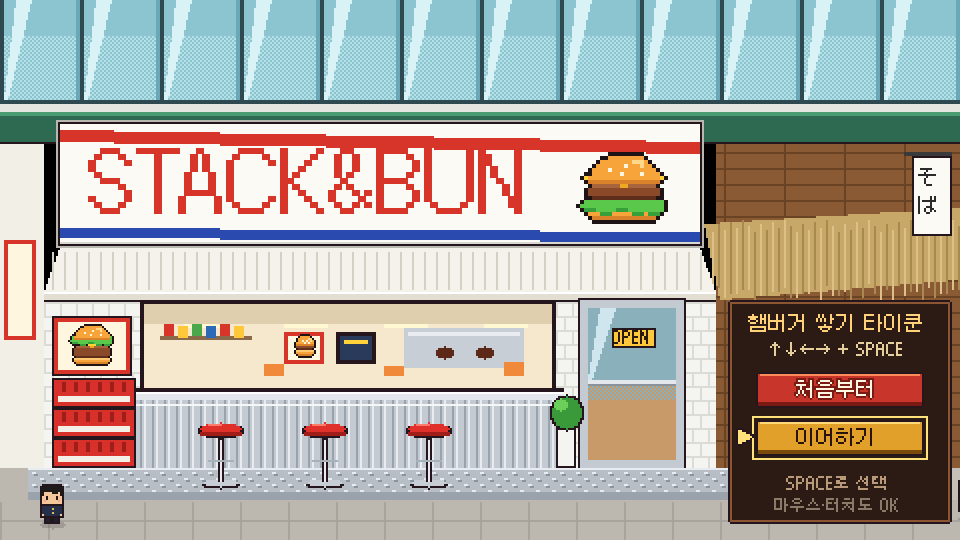
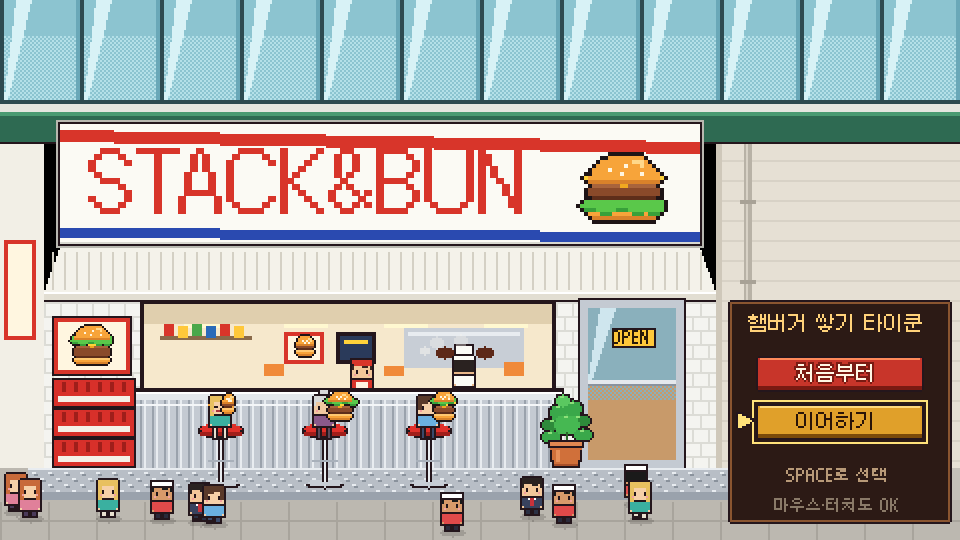
외관: 화분, 스툴 손님·알바생 애니메이션, 옆 가게 제거, 타이틀 키 안내 삭제
Claude-Session: https://claude.ai/code/session_01TauZiRAhkVmxTbH3dWL3Wc

diff --git a/js/game.js b/js/game.js
@@ -149,6 +149,15 @@
     R(c, x - 6, y - 12, 13, 1, '#a8b0ba');
     disc(c, x, y - 27, 11, 4, INK); disc(c, x, y - 28, 10, 3, '#e0302a'); R(c, x - 6, y - 30, 7, 1, '#ff7a6a'); R(c, x - 10, y - 26, 21, 2, '#a01e1a');
   }
+  function pottedPlant(c, x, y) { // terracotta pot with a leafy bush; (x, y) = bottom centre
+    const leaves = [[-7, -22, 5, 3, '#2e8a3a'], [6, -24, 5, 3, '#2e8a3a'], [-4, -28, 4, 4, '#3aa84a'], [3, -30, 4, 4, '#3aa84a'], [0, -22, 6, 5, '#46b852'], [-8, -16, 4, 3, '#3aa84a'], [8, -17, 4, 3, '#3aa84a'], [-2, -34, 3, 3, '#5ac860']];
+    leaves.forEach(([dx, dy, rx, ry]) => disc(c, x + dx, y + dy, rx + 1, ry + 1, INK));
+    leaves.forEach(([dx, dy, rx, ry, col]) => { disc(c, x + dx, y + dy, rx, ry, col); R(c, x + dx - 1, y + dy - ry + 1, 2, 1, '#8ee07a'); });
+    R(c, x, y - 18, 1, 6, '#2a6a2a');
+    poly(c, [[x - 9, y - 13], [x + 9, y - 13], [x + 7, y], [x - 7, y]], INK);
+    poly(c, [[x - 8, y - 12], [x + 8, y - 12], [x + 6, y - 1], [x - 6, y - 1]], '#d0703a');
+    R(c, x - 9, y - 14, 18, 4, INK); R(c, x - 8, y - 13, 16, 2, '#e08850'); R(c, x - 5, y - 9, 2, 6, '#e8905a'); R(c, x - 6, y - 2, 12, 1, '#a8502a');
+  }
   function paintExterior() {
     if (!extCv) { extCv = document.createElement('canvas'); extCv.width = W; extCv.height = H; }
     const c = extCv.getContext('2d'), th = s.info.theme;
@@ -166,15 +175,10 @@
     R(c, 0, 56, W, 16, '#2e6a52'); R(c, 0, 56, W, 2, '#4a9a72'); R(c, 0, 71, W, 1, INK);
     // neighbours
     R(c, 0, 72, 22, 178, '#f2efe6'); R(c, 2, 120, 16, 50, '#d8352a'); R(c, 4, 122, 12, 46, '#fff6e0');
-    R(c, 358, 72, 122, 178, '#8a5a34');
-    for (let y = 76; y < 250; y += 8) { R(c, 358, y, 122, 1, '#6a4224'); }
-    for (let x = 362; x < 480; x += 30) R(c, x, 72, 1, 178, '#6a4224');
-    poly(c, [[352, 112], [480, 104], [480, 140], [360, 150]], '#c8a868');
-    for (let x = 356; x < 480; x += 3) R(c, x, 110 + (x % 7), 1, 36 - (x % 5), x % 2 ? '#a88a50' : '#dcc088');
-    R(c, 380, 160, 70, 60, INK); R(c, 382, 162, 66, 56, '#d8a868'); R(c, 384, 164, 62, 26, '#ffd890'); R(c, 384, 192, 62, 24, '#c89058');
-    // hanging blade sign
-    R(c, 452, 76, 24, 2, '#3a3a3a'); R(c, 456, 78, 20, 40, INK); R(c, 457, 79, 18, 38, '#fbfaf4');
-    T(c, 'そ', 466, 84, 10, '#2a2a2a', null, 'c'); T(c, 'ば', 466, 98, 10, '#2a2a2a', null, 'c');
+    R(c, 358, 72, 122, 178, '#e6e0d4');
+    for (let y = 80; y < 250; y += 10) R(c, 358, y, 122, 1, '#d8d2c6');
+    R(c, 358, 72, 3, 178, '#cfc8ba'); R(c, 372, 72, 4, 178, '#b8b2a6'); R(c, 373, 72, 1, 178, '#d8d2c6');
+    for (let y = 100; y < 250; y += 40) R(c, 370, y, 8, 2, '#a8a296');
     // main signboard
     const sx = 30, sy = 62, sw = 320, sh = 60;
     R(c, sx - 2, sy - 2, sw + 4, sh + 4, '#b8b8b0'); R(c, sx - 1, sy - 1, sw + 2, sh + 2, INK); R(c, sx, sy, sw, sh, '#fbfaf4');
@@ -215,7 +219,7 @@
     R(c, dx + 4, dy + 40, dw - 8, 3, '#e4e8ec'); R(c, dx + 4, dy + 42, dw - 8, 1, '#8a929c');
     R(c, dx + 16, dy + 14, 22, 10, INK); R(c, dx + 17, dy + 15, 20, 8, th.trim2); T(c, 'OPEN', dx + 27, dy + 15, 8, '#2a1a08', null, 'c');
     // plant + crates
-    R(c, 278, 214, 10, 20, INK); R(c, 279, 215, 8, 18, '#f4f4f0'); disc(c, 283, 206, 8, 9, INK); disc(c, 283, 206, 7, 8, '#3a9a3a'); disc(c, 280, 202, 3, 3, '#6ad05a');
+    pottedPlant(c, 283, 234);
     for (let i = 0; i < 3; i++) { const y = 234 - (i + 1) * 15; R(c, 26, y, 42, 15, INK); R(c, 27, y + 1, 40, 13, '#d8302a'); for (let x = 31; x < 66; x += 6) R(c, x, y + 2, 2, 5, '#a01e1a'); R(c, 29, y + 9, 36, 3, '#f4f0e8'); }
     // diamond-plate step
     R(c, 14, 234, 350, 14, '#b8bec6'); R(c, 14, 234, 350, 1, '#e8ecf0');
@@ -230,16 +234,68 @@
     if (s.eve) { c.fillStyle = 'rgba(60,30,100,0.28)'; c.fillRect(0, 0, W, H); c.save(); c.globalCompositeOperation = 'lighter'; disc(c, 174, 176, 110, 30, 'rgba(255,170,80,0.18)'); c.restore(); }
     dirtyExt = false;
   }
+  const CHEF_LOOK = { skin: '#eab88a', hair: '#2a2220', hs: 'chef', top: '#fbfbf6', bottom: '#3a3a4a', apron: '#e8e8e0' };
+  const STOOLS = [110, 162, 214];
+  const ext = { staff: { x: 120, tx: 120, carry: false, wait: 0, walk: 0, seat: -1 }, seats: STOOLS.map(x => ({ x, st: 'empty', cd: rnd(0.5, 3) })), smoke: [], plates: [] };
+  function drawShopLife(c) {
+    const th = s.info.theme, t = s.t;
+    // chef at the grill (back) + grill smoke
+    const cx = 232, cb = Math.floor(t * 4) % 2;
+    chibi(c, cx, 197, CHEF_LOOK, { back: true, step: cb });
+    ext.smoke.forEach(m => { c.globalAlpha = clamp(0.6 * (1 - m.t / m.life), 0, 1); disc(c, m.x, m.y, m.r, m.r, '#f6f4f0'); c.globalAlpha = 1; });
+    // server walking behind the counter with a burger
+    const st = ext.staff, sl = { skin: '#f2c79a', hair: '#3a2420', hs: 'cap', cap: th.trim, top: th.trim, apron: '#fff4e0', bottom: '#3a3a4a' };
+    chibi(c, st.x, 199, sl, { step: Math.abs(st.tx - st.x) > 1 ? Math.floor(st.walk * 6) % 2 : 0, mood: st.wait > 0 ? 'happy' : null });
+    if (st.carry) A.burger(c, st.x + 8, 193 - (st.wait > 0 ? 2 : 0), 10, [th.mid, 'cheese', 'lettuce'], 0.6);
+  }
+  function drawDiner(c, se) {
+    const th = s.info.theme;
+    if (se.st === 'walk' || se.st === 'leave') { disc(c, se.px, se.py, 6, 2, 'rgba(0,0,0,.15)'); chibi(c, se.px, se.py, se.look, { step: Math.floor(se.walk * 6) % 2, mood: se.st === 'leave' ? 'happy' : null }); return; }
+    const x = se.x, y = 214;
+    R(c, x - 4, y - 1, 3, 7, INK); R(c, x + 1, y - 1, 3, 7, INK); R(c, x - 3, y, 1, 5, se.look.bottom); R(c, x + 2, y, 1, 5, se.look.bottom);
+    const ph = se.st === 'eat' ? (se.t % 1.6) / 1.6 : 1, biting = ph < 0.25;
+    chibi(c, x, y, se.look, { sit: true, mood: se.st === 'eat' ? (biting ? 'happy' : null) : null });
+    if (se.st === 'wait') { bubble(c, x + 4, y - 32, 15, 12); A.burger(c, x + 11, y - 22, 8, [th.mid], 0.5); }
+    if (se.st === 'eat') {
+      const left = 4 - se.bites;
+      if (left > 0) A.burger(c, x + (biting ? 4 : 8), y - (biting ? 6 : 3), 4 + left * 2, left > 2 ? [th.mid, 'cheese', 'lettuce'] : [th.mid], 0.5);
+      if (biting && se.bites < 4) { R(c, x - 6, y - 12, 1, 1, '#f7a43a'); R(c, x + 6, y - 11, 1, 1, '#f7a43a'); }
+      if (se.bites >= 4) heart(c, x - 3, y - 27);
+    }
+  }
   function drawExterior(c) {
     if (dirtyExt) paintExterior();
     c.drawImage(extCv, 0, 0);
+    drawShopLife(c);
+    c.drawImage(extCv, 60, 194, 226, 42, 60, 194, 226, 42); // counter top + bar front hide the staff's legs
+    ext.seats.forEach(se => { if (se.st !== 'empty') drawDiner(c, se); });
     s.peds.slice().sort((a, b) => a.y - b.y).forEach(p => { disc(c, p.x, p.y, 6, 2, 'rgba(0,0,0,.15)'); chibi(c, p.x, p.y, p.look, { back: p.back, step: Math.floor(p.walk * 6) % 2 }); });
     if (s.panel && s.panel.kind === 'open' && !s.trans) {
       const b = Math.floor(s.t * 3) % 2;
       T(c, '▼', DOOR_PT[0], DOOR_RECT[1] - 14 + b, 10, '#ffe27a', INK, 'c');
     }
   }
+  function updShopLife(dt) {
+    const st = ext.staff;
+    if (Math.random() < dt * 3) ext.smoke.push({ x: rnd(205, 255), y: 176, r: rnd(2, 3), t: 0, life: rnd(0.8, 1.4) });
+    ext.smoke.forEach(m => { m.t += dt; m.y -= 12 * dt; m.r += dt; }); ext.smoke = ext.smoke.filter(m => m.t < m.life);
+    ext.seats.forEach((se, i) => {
+      se.t = (se.t || 0) + dt;
+      if (se.st === 'empty') { se.cd -= dt; if (se.cd <= 0) { const dir = Math.random() < 0.5 ? 1 : -1; Object.assign(se, { st: 'walk', look: pick(LOOKS), px: dir > 0 ? -12 : W + 12, py: 256, walk: 0, t: 0 }); } }
+      else if (se.st === 'walk') { const d = se.x - se.px; se.walk += dt; se.px += Math.sign(d) * Math.min(Math.abs(d), 36 * dt); if (Math.abs(d) < 1) { se.st = 'wait'; se.t = 0; } }
+      else if (se.st === 'eat') { if (se.t > 1.6 * (se.bites + 1) && se.bites < 4) se.bites++; if (se.t > 9) { se.st = 'leave'; se.px = se.x; se.py = 256; se.walk = 0; se.dir = Math.random() < 0.5 ? 1 : -1; } }
+      else if (se.st === 'leave') { se.walk += dt; se.px += se.dir * 36 * dt; if (se.px < -16 || se.px > W + 16) { se.st = 'empty'; se.cd = rnd(1.5, 5); } }
+    });
+    // server: take a burger to whoever is waiting, then wander
+    if (st.wait > 0) { st.wait -= dt; if (st.wait <= 0 && st.carry) { const se = ext.seats[st.seat]; st.carry = false; if (se && se.st === 'wait') { se.st = 'eat'; se.t = 0; se.bites = 0; } st.seat = -1; st.tx = rnd(90, 200); } return; }
+    if (st.seat < 0) { const i = ext.seats.findIndex(se => se.st === 'wait' && se.t > 1); if (i >= 0) { st.seat = i; st.carry = true; st.tx = ext.seats[i].x; } }
+    const d = st.tx - st.x;
+    if (Math.abs(d) > 1) { st.x += Math.sign(d) * Math.min(Math.abs(d), 45 * dt); st.walk += dt; }
+    else if (st.carry) st.wait = 0.6;
+    else if (Math.random() < dt * 0.4) st.tx = rnd(90, 200);
+  }
   function updExterior(dt) {
+    updShopLife(dt);
     s.pedT -= dt;
     if (s.pedT <= 0) {
       s.pedT = rnd(0.8, 2.0);
@@ -722,9 +778,8 @@
       const px = 364, pw = 112;
       frame(c, px, 150, pw, 112, 'rgba(36,22,20,.92)', '#8a5530');
       T(c, '햄버거 쌓기 타이쿤', px + pw / 2, 157, 10, '#ffd27a', null, 'c');
-      T(c, '↑↓←→ + SPACE', px + pw / 2, 171, 8, '#e6cf9c', null, 'c');
-      items.forEach((it, i) => { const y = 186 + i * 24; button(c, px + 14, y, pw - 28, 18, it.label, it.kind, p.sel === i); s.hits.push({ x: px + 14, y, w: pw - 28, h: 18, act: () => { p.sel = i; it.act(); } }); });
-      T(c, 'SPACE로 선택', px + pw / 2, 238, 8, '#b89a78', null, 'c');
+      items.forEach((it, i) => { const y = 178 + i * 24; button(c, px + 14, y, pw - 28, 18, it.label, it.kind, p.sel === i); s.hits.push({ x: px + 14, y, w: pw - 28, h: 18, act: () => { p.sel = i; it.act(); } }); });
+      T(c, 'SPACE로 선택', px + pw / 2, 234, 8, '#b89a78', null, 'c');
       T(c, '마우스·터치도 OK', px + pw / 2, 249, 8, '#8a7a68', null, 'c');
       return;
     }
